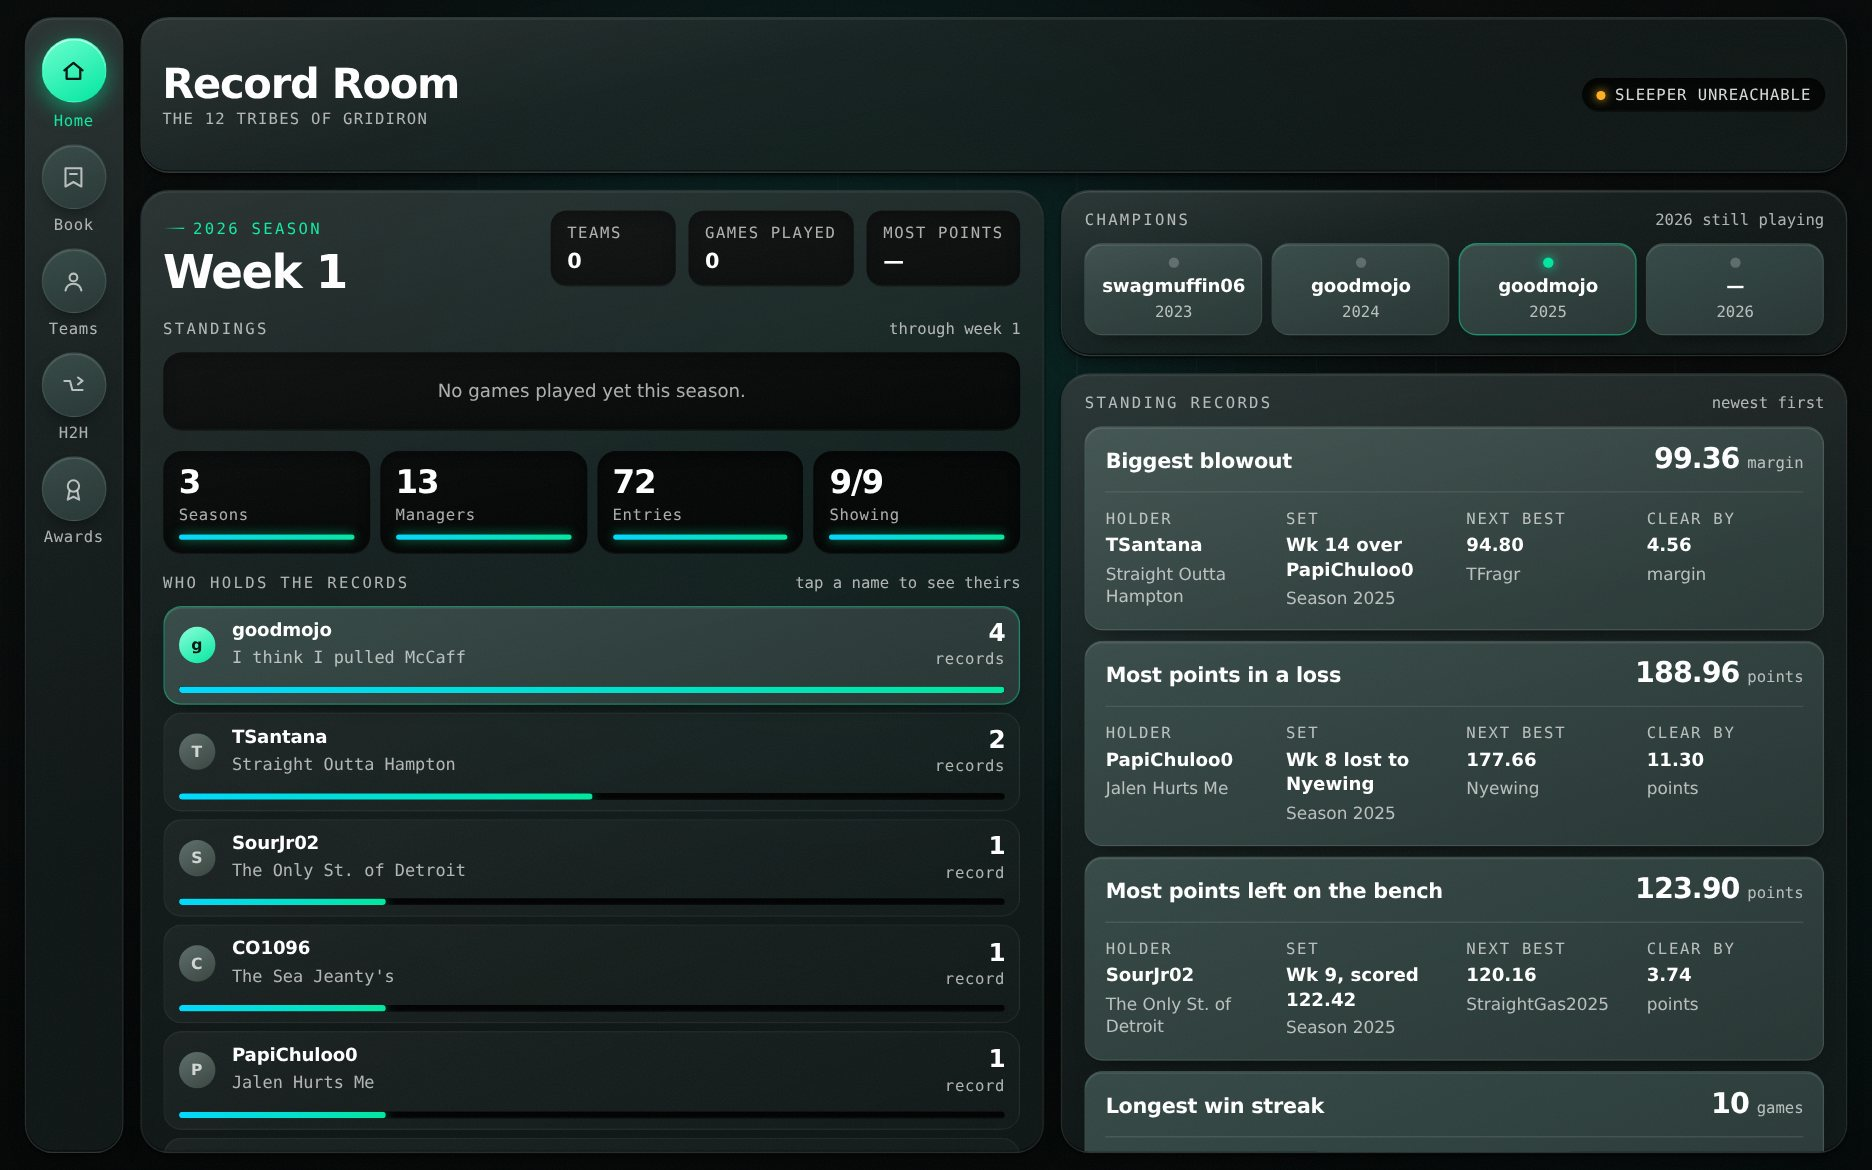
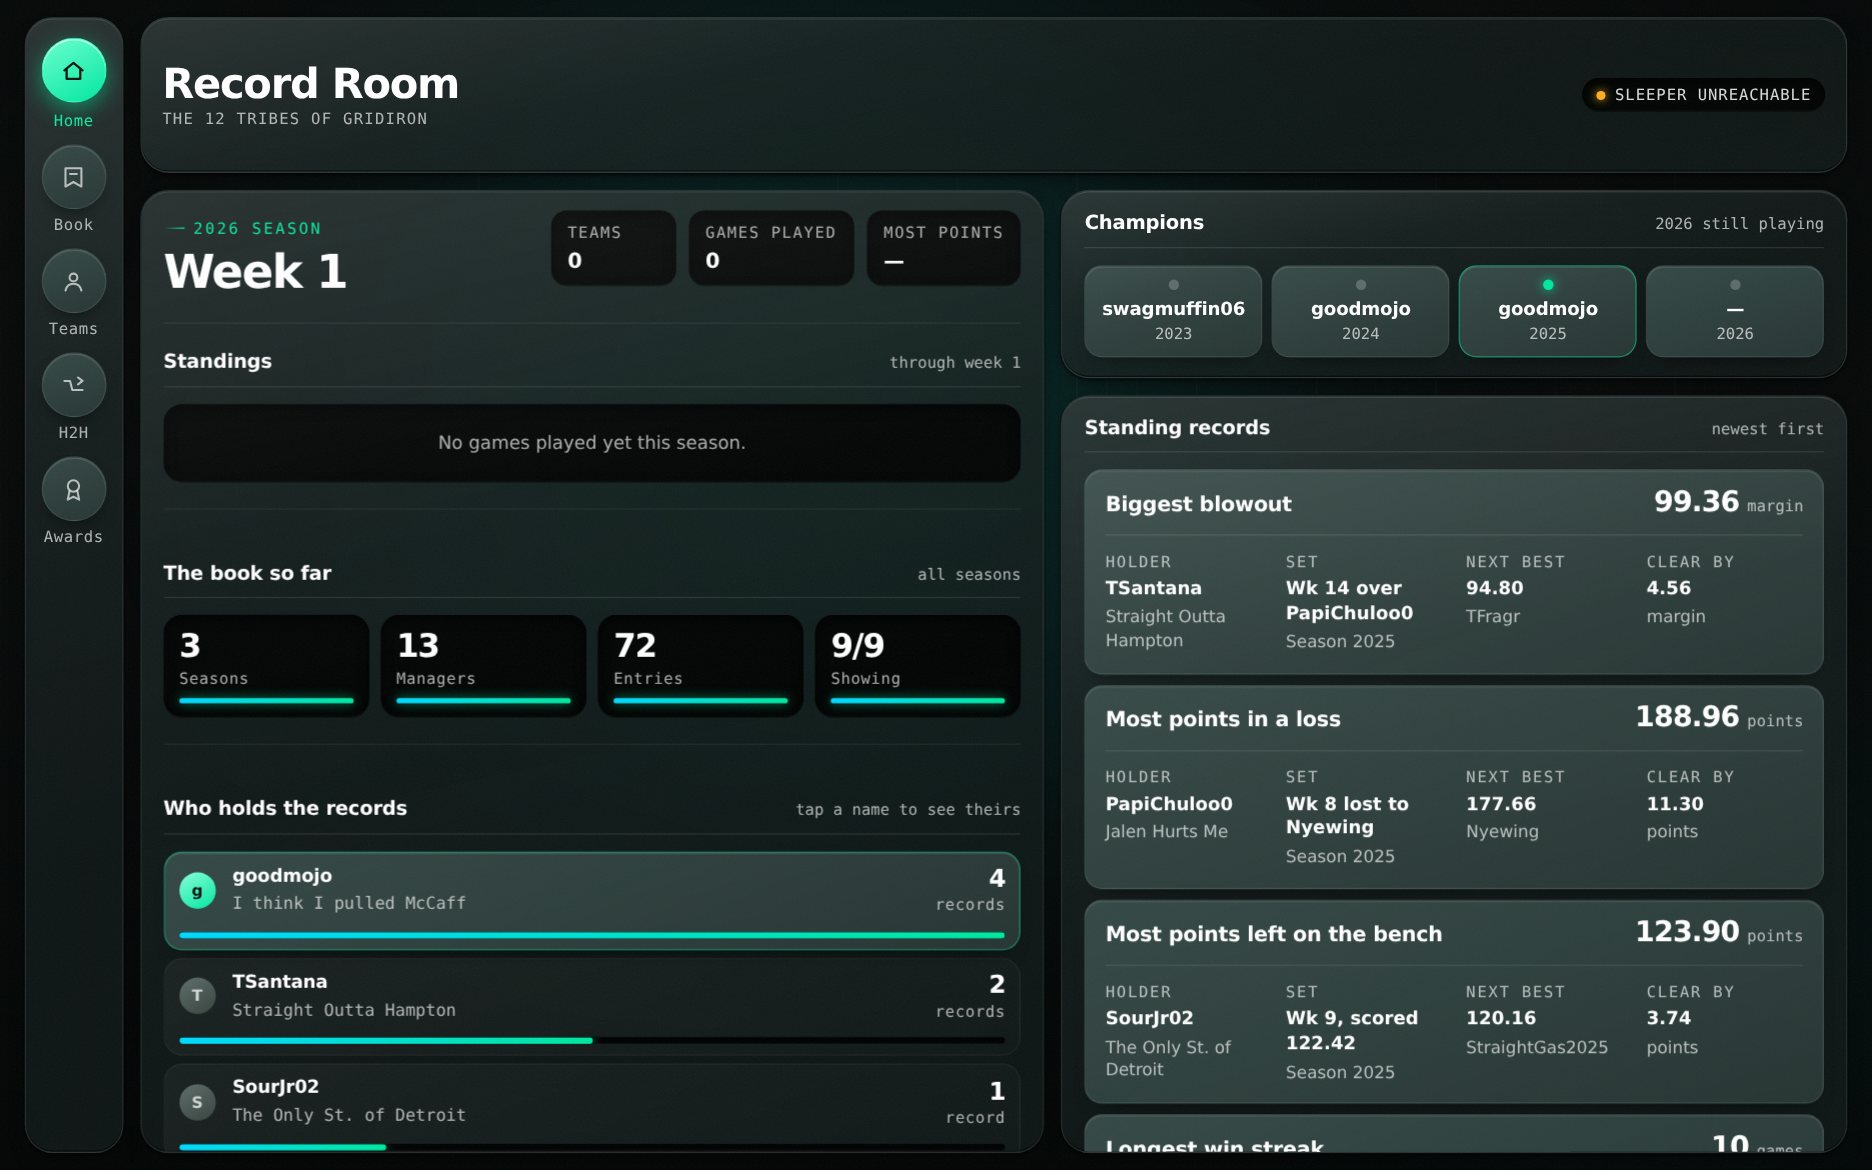
Give every section a title and a visible end
On a phone the overview ran as one continuous column: standings, then four
tiles with no label at all, then the holders list, with nothing marking where
one ended and the next began. Section headings were 12px muted monospace, the
same weight as the content under them, and their right-hand note fought the
title for the same line and wrapped into two ragged columns.

Headings are now set in the display face at 15px in full white with a rule
beneath, each section is a block that closes with its own divider, and on a
phone the note drops below the title instead of sharing the line. The tiles
sit under a heading of their own rather than floating between two lists, and
the season header closes off the same way.

Claude-Session: https://claude.ai/code/session_01TiNMvjTDK6Q7mnYRtzpeH8

diff --git a/public/index.html b/public/index.html
@@ -133,10 +133,16 @@ button{font:inherit;color:inherit}
 .eyebrow{margin:0 0 4px;font-family:var(--mono);font-size:12px;letter-spacing:.15em;
   text-transform:uppercase;color:var(--ink-3);font-weight:500}
 .hint{margin:0 0 13px;font-size:14px;color:var(--ink-3);line-height:1.6}
-.sechead{display:flex;align-items:baseline;justify-content:space-between;gap:12px;margin-bottom:11px}
-.sechead h4{margin:0;font-family:var(--mono);font-size:12px;letter-spacing:.15em;text-transform:uppercase;
-  color:var(--ink-3);font-weight:500}
-.sechead em{font-family:var(--mono);font-style:normal;font-size:12px;color:var(--ink-3)}
+.sechead{display:flex;align-items:baseline;justify-content:space-between;gap:12px;
+  margin-bottom:13px;padding-bottom:9px;border-bottom:1px solid rgba(255,255,255,.11)}
+.sechead h4{margin:0;font-family:var(--disp);font-size:15px;letter-spacing:-.01em;
+  text-transform:none;color:var(--ink);font-weight:700;line-height:1.2}
+.sechead em{flex:none;font-family:var(--mono);font-style:normal;font-size:12px;color:var(--ink-3);
+  line-height:1.3}
+/* a section is a titled block that visibly ends */
+.block{padding-bottom:20px;border-bottom:1px solid rgba(255,255,255,.07)}
+.block:last-child{padding-bottom:0;border-bottom:none}
+.home-a > .block + .block{padding-top:20px}
 .pad{padding:15px 17px}
 .empty{padding:22px 14px;text-align:center;font-size:14px;color:var(--ink-3);
   border-radius:var(--r-s);background:var(--recess);box-shadow:var(--well-sh)}
@@ -169,7 +175,7 @@ button{font:inherit;color:inherit}
 
 /* ═══ OVERVIEW: bento ═══ */
 #p-home{grid-template-columns:minmax(0,1fr)}
-.home-a{display:flex;flex-direction:column;gap:15px;overflow:auto;min-height:0}
+.home-a{display:flex;flex-direction:column;gap:20px;overflow:auto;min-height:0}
 .home-b{overflow:auto;min-height:0}
 @media(min-width:1100px){
   #p-home{grid-template-columns:minmax(0,1.15fr) minmax(0,1fr);grid-template-rows:minmax(0,auto) minmax(0,1fr)}
@@ -177,14 +183,14 @@ button{font:inherit;color:inherit}
   .home-b{grid-column:2;grid-row:1}
   .home-c{grid-column:2;grid-row:2}
 }
-.hero{display:block}
+.hero{display:block;padding-bottom:20px;border-bottom:1px solid rgba(255,255,255,.07)}
 .hero h2{margin:0;font-family:var(--disp);font-size:clamp(26px,3vw,36px);font-weight:700;
   letter-spacing:-.035em;line-height:1.04;text-wrap:balance}
 .kick{display:inline-flex;align-items:center;gap:7px;font-family:var(--mono);font-size:12px;
   letter-spacing:.15em;text-transform:uppercase;color:var(--accent);margin:0 0 8px}
 .kick::before{content:"";width:16px;height:1px;background:linear-gradient(90deg,transparent,var(--accent))}
 .heroline{margin:14px 0 0;font-size:15px;color:var(--ink-3);line-height:1.5;max-width:44ch}
-.tiles{display:grid;grid-template-columns:repeat(auto-fit,minmax(104px,1fr));gap:8px;margin-top:16px}
+.tiles{display:grid;grid-template-columns:repeat(auto-fit,minmax(104px,1fr));gap:9px}
 .tile{padding:11px 12px;border-radius:var(--r-s);background:var(--recess);box-shadow:var(--well-sh)}
 .tile b{display:block;font-family:var(--disp);font-size:25px;font-weight:700;letter-spacing:-.04em;
   font-variant-numeric:tabular-nums;line-height:1}
@@ -473,6 +479,14 @@ dialog::backdrop{background:rgba(2,5,4,.78);backdrop-filter:blur(3px)}
   .vsmid{text-align:center}
 }
 @media(max-width:699px){
+  .sechead{flex-direction:column;align-items:flex-start;gap:4px}
+  .sechead h4{font-size:16px}
+  .block{padding-bottom:22px}
+  .hero{padding-bottom:22px}
+  .home-a > .block + .block{padding-top:22px}
+  /* panels read as separate objects, not one continuous scroll */
+  #p-home[data-on="1"]{gap:16px}
+  .page[data-on="1"] > .panel{border-color:rgba(255,255,255,.14)}
   .site{height:auto;min-height:100vh;min-height:100dvh;grid-template-columns:minmax(0,1fr);
     padding-bottom:calc(84px + env(safe-area-inset-bottom,0px))}
   .site>.dock{position:fixed;left:0;right:0;bottom:0;z-index:40;flex-direction:row;justify-content:space-around;
@@ -545,14 +559,17 @@ dialog::backdrop{background:rgba(2,5,4,.78);backdrop-filter:blur(3px)}
               </div>
               <div class="seasonmeta" id="smeta"></div>
             </div>
-            <div class="sechead" style="margin-top:18px">
-              <h4>Standings</h4><em id="stNote"></em>
-            </div>
-            <div class="standings" id="standings"></div>
-            <div class="tiles" id="htiles"></div>
           </div>
         </div>
-        <section>
+        <section class="block">
+          <div class="sechead"><h4>Standings</h4><em id="stNote"></em></div>
+          <div class="standings" id="standings"></div>
+        </section>
+        <section class="block">
+          <div class="sechead"><h4>The book so far</h4><em>all seasons</em></div>
+          <div class="tiles" id="htiles"></div>
+        </section>
+        <section class="block">
           <div class="sechead"><h4>Who holds the records</h4><em id="hbarNote"></em></div>
           <div class="hbars" id="hbars"></div>
         </section>

diff --git a/samples/record-room-standalone.html b/samples/record-room-standalone.html
@@ -133,10 +133,16 @@ button{font:inherit;color:inherit}
 .eyebrow{margin:0 0 4px;font-family:var(--mono);font-size:12px;letter-spacing:.15em;
   text-transform:uppercase;color:var(--ink-3);font-weight:500}
 .hint{margin:0 0 13px;font-size:14px;color:var(--ink-3);line-height:1.6}
-.sechead{display:flex;align-items:baseline;justify-content:space-between;gap:12px;margin-bottom:11px}
-.sechead h4{margin:0;font-family:var(--mono);font-size:12px;letter-spacing:.15em;text-transform:uppercase;
-  color:var(--ink-3);font-weight:500}
-.sechead em{font-family:var(--mono);font-style:normal;font-size:12px;color:var(--ink-3)}
+.sechead{display:flex;align-items:baseline;justify-content:space-between;gap:12px;
+  margin-bottom:13px;padding-bottom:9px;border-bottom:1px solid rgba(255,255,255,.11)}
+.sechead h4{margin:0;font-family:var(--disp);font-size:15px;letter-spacing:-.01em;
+  text-transform:none;color:var(--ink);font-weight:700;line-height:1.2}
+.sechead em{flex:none;font-family:var(--mono);font-style:normal;font-size:12px;color:var(--ink-3);
+  line-height:1.3}
+/* a section is a titled block that visibly ends */
+.block{padding-bottom:20px;border-bottom:1px solid rgba(255,255,255,.07)}
+.block:last-child{padding-bottom:0;border-bottom:none}
+.home-a > .block + .block{padding-top:20px}
 .pad{padding:15px 17px}
 .empty{padding:22px 14px;text-align:center;font-size:14px;color:var(--ink-3);
   border-radius:var(--r-s);background:var(--recess);box-shadow:var(--well-sh)}
@@ -169,7 +175,7 @@ button{font:inherit;color:inherit}
 
 /* ═══ OVERVIEW: bento ═══ */
 #p-home{grid-template-columns:minmax(0,1fr)}
-.home-a{display:flex;flex-direction:column;gap:15px;overflow:auto;min-height:0}
+.home-a{display:flex;flex-direction:column;gap:20px;overflow:auto;min-height:0}
 .home-b{overflow:auto;min-height:0}
 @media(min-width:1100px){
   #p-home{grid-template-columns:minmax(0,1.15fr) minmax(0,1fr);grid-template-rows:minmax(0,auto) minmax(0,1fr)}
@@ -177,14 +183,14 @@ button{font:inherit;color:inherit}
   .home-b{grid-column:2;grid-row:1}
   .home-c{grid-column:2;grid-row:2}
 }
-.hero{display:block}
+.hero{display:block;padding-bottom:20px;border-bottom:1px solid rgba(255,255,255,.07)}
 .hero h2{margin:0;font-family:var(--disp);font-size:clamp(26px,3vw,36px);font-weight:700;
   letter-spacing:-.035em;line-height:1.04;text-wrap:balance}
 .kick{display:inline-flex;align-items:center;gap:7px;font-family:var(--mono);font-size:12px;
   letter-spacing:.15em;text-transform:uppercase;color:var(--accent);margin:0 0 8px}
 .kick::before{content:"";width:16px;height:1px;background:linear-gradient(90deg,transparent,var(--accent))}
 .heroline{margin:14px 0 0;font-size:15px;color:var(--ink-3);line-height:1.5;max-width:44ch}
-.tiles{display:grid;grid-template-columns:repeat(auto-fit,minmax(104px,1fr));gap:8px;margin-top:16px}
+.tiles{display:grid;grid-template-columns:repeat(auto-fit,minmax(104px,1fr));gap:9px}
 .tile{padding:11px 12px;border-radius:var(--r-s);background:var(--recess);box-shadow:var(--well-sh)}
 .tile b{display:block;font-family:var(--disp);font-size:25px;font-weight:700;letter-spacing:-.04em;
   font-variant-numeric:tabular-nums;line-height:1}
@@ -473,6 +479,14 @@ dialog::backdrop{background:rgba(2,5,4,.78);backdrop-filter:blur(3px)}
   .vsmid{text-align:center}
 }
 @media(max-width:699px){
+  .sechead{flex-direction:column;align-items:flex-start;gap:4px}
+  .sechead h4{font-size:16px}
+  .block{padding-bottom:22px}
+  .hero{padding-bottom:22px}
+  .home-a > .block + .block{padding-top:22px}
+  /* panels read as separate objects, not one continuous scroll */
+  #p-home[data-on="1"]{gap:16px}
+  .page[data-on="1"] > .panel{border-color:rgba(255,255,255,.14)}
   .site{height:auto;min-height:100vh;min-height:100dvh;grid-template-columns:minmax(0,1fr);
     padding-bottom:calc(84px + env(safe-area-inset-bottom,0px))}
   .site>.dock{position:fixed;left:0;right:0;bottom:0;z-index:40;flex-direction:row;justify-content:space-around;
@@ -545,14 +559,17 @@ dialog::backdrop{background:rgba(2,5,4,.78);backdrop-filter:blur(3px)}
               </div>
               <div class="seasonmeta" id="smeta"></div>
             </div>
-            <div class="sechead" style="margin-top:18px">
-              <h4>Standings</h4><em id="stNote"></em>
-            </div>
-            <div class="standings" id="standings"></div>
-            <div class="tiles" id="htiles"></div>
           </div>
         </div>
-        <section>
+        <section class="block">
+          <div class="sechead"><h4>Standings</h4><em id="stNote"></em></div>
+          <div class="standings" id="standings"></div>
+        </section>
+        <section class="block">
+          <div class="sechead"><h4>The book so far</h4><em>all seasons</em></div>
+          <div class="tiles" id="htiles"></div>
+        </section>
+        <section class="block">
           <div class="sechead"><h4>Who holds the records</h4><em id="hbarNote"></em></div>
           <div class="hbars" id="hbars"></div>
         </section>

diff --git a/samples/record-room.html b/samples/record-room.html
@@ -127,10 +127,16 @@ button{font:inherit;color:inherit}
 .eyebrow{margin:0 0 4px;font-family:var(--mono);font-size:12px;letter-spacing:.15em;
   text-transform:uppercase;color:var(--ink-3);font-weight:500}
 .hint{margin:0 0 13px;font-size:14px;color:var(--ink-3);line-height:1.6}
-.sechead{display:flex;align-items:baseline;justify-content:space-between;gap:12px;margin-bottom:11px}
-.sechead h4{margin:0;font-family:var(--mono);font-size:12px;letter-spacing:.15em;text-transform:uppercase;
-  color:var(--ink-3);font-weight:500}
-.sechead em{font-family:var(--mono);font-style:normal;font-size:12px;color:var(--ink-3)}
+.sechead{display:flex;align-items:baseline;justify-content:space-between;gap:12px;
+  margin-bottom:13px;padding-bottom:9px;border-bottom:1px solid rgba(255,255,255,.11)}
+.sechead h4{margin:0;font-family:var(--disp);font-size:15px;letter-spacing:-.01em;
+  text-transform:none;color:var(--ink);font-weight:700;line-height:1.2}
+.sechead em{flex:none;font-family:var(--mono);font-style:normal;font-size:12px;color:var(--ink-3);
+  line-height:1.3}
+/* a section is a titled block that visibly ends */
+.block{padding-bottom:20px;border-bottom:1px solid rgba(255,255,255,.07)}
+.block:last-child{padding-bottom:0;border-bottom:none}
+.home-a > .block + .block{padding-top:20px}
 .pad{padding:15px 17px}
 .empty{padding:22px 14px;text-align:center;font-size:14px;color:var(--ink-3);
   border-radius:var(--r-s);background:var(--recess);box-shadow:var(--well-sh)}
@@ -163,7 +169,7 @@ button{font:inherit;color:inherit}
 
 /* ═══ OVERVIEW: bento ═══ */
 #p-home{grid-template-columns:minmax(0,1fr)}
-.home-a{display:flex;flex-direction:column;gap:15px;overflow:auto;min-height:0}
+.home-a{display:flex;flex-direction:column;gap:20px;overflow:auto;min-height:0}
 .home-b{overflow:auto;min-height:0}
 @media(min-width:1100px){
   #p-home{grid-template-columns:minmax(0,1.15fr) minmax(0,1fr);grid-template-rows:minmax(0,auto) minmax(0,1fr)}
@@ -171,14 +177,14 @@ button{font:inherit;color:inherit}
   .home-b{grid-column:2;grid-row:1}
   .home-c{grid-column:2;grid-row:2}
 }
-.hero{display:block}
+.hero{display:block;padding-bottom:20px;border-bottom:1px solid rgba(255,255,255,.07)}
 .hero h2{margin:0;font-family:var(--disp);font-size:clamp(26px,3vw,36px);font-weight:700;
   letter-spacing:-.035em;line-height:1.04;text-wrap:balance}
 .kick{display:inline-flex;align-items:center;gap:7px;font-family:var(--mono);font-size:12px;
   letter-spacing:.15em;text-transform:uppercase;color:var(--accent);margin:0 0 8px}
 .kick::before{content:"";width:16px;height:1px;background:linear-gradient(90deg,transparent,var(--accent))}
 .heroline{margin:14px 0 0;font-size:15px;color:var(--ink-3);line-height:1.5;max-width:44ch}
-.tiles{display:grid;grid-template-columns:repeat(auto-fit,minmax(104px,1fr));gap:8px;margin-top:16px}
+.tiles{display:grid;grid-template-columns:repeat(auto-fit,minmax(104px,1fr));gap:9px}
 .tile{padding:11px 12px;border-radius:var(--r-s);background:var(--recess);box-shadow:var(--well-sh)}
 .tile b{display:block;font-family:var(--disp);font-size:25px;font-weight:700;letter-spacing:-.04em;
   font-variant-numeric:tabular-nums;line-height:1}
@@ -467,6 +473,14 @@ dialog::backdrop{background:rgba(2,5,4,.78);backdrop-filter:blur(3px)}
   .vsmid{text-align:center}
 }
 @media(max-width:699px){
+  .sechead{flex-direction:column;align-items:flex-start;gap:4px}
+  .sechead h4{font-size:16px}
+  .block{padding-bottom:22px}
+  .hero{padding-bottom:22px}
+  .home-a > .block + .block{padding-top:22px}
+  /* panels read as separate objects, not one continuous scroll */
+  #p-home[data-on="1"]{gap:16px}
+  .page[data-on="1"] > .panel{border-color:rgba(255,255,255,.14)}
   .site{height:auto;min-height:100vh;min-height:100dvh;grid-template-columns:minmax(0,1fr);
     padding-bottom:calc(84px + env(safe-area-inset-bottom,0px))}
   .site>.dock{position:fixed;left:0;right:0;bottom:0;z-index:40;flex-direction:row;justify-content:space-around;
@@ -536,14 +550,17 @@ dialog::backdrop{background:rgba(2,5,4,.78);backdrop-filter:blur(3px)}
               </div>
               <div class="seasonmeta" id="smeta"></div>
             </div>
-            <div class="sechead" style="margin-top:18px">
-              <h4>Standings</h4><em id="stNote"></em>
-            </div>
-            <div class="standings" id="standings"></div>
-            <div class="tiles" id="htiles"></div>
           </div>
         </div>
-        <section>
+        <section class="block">
+          <div class="sechead"><h4>Standings</h4><em id="stNote"></em></div>
+          <div class="standings" id="standings"></div>
+        </section>
+        <section class="block">
+          <div class="sechead"><h4>The book so far</h4><em>all seasons</em></div>
+          <div class="tiles" id="htiles"></div>
+        </section>
+        <section class="block">
           <div class="sechead"><h4>Who holds the records</h4><em id="hbarNote"></em></div>
           <div class="hbars" id="hbars"></div>
         </section>
